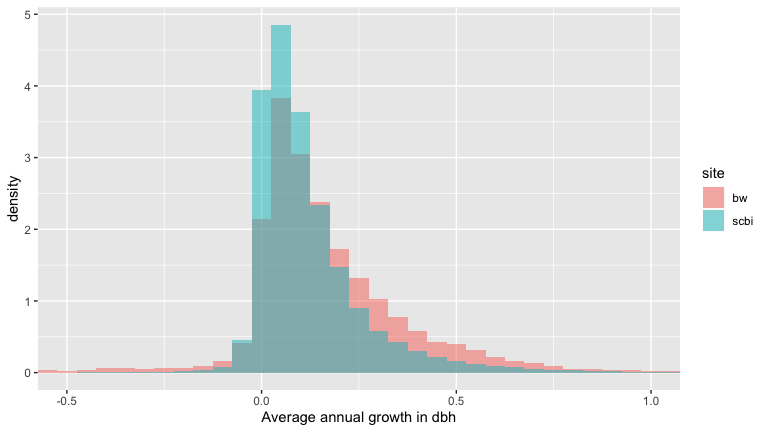
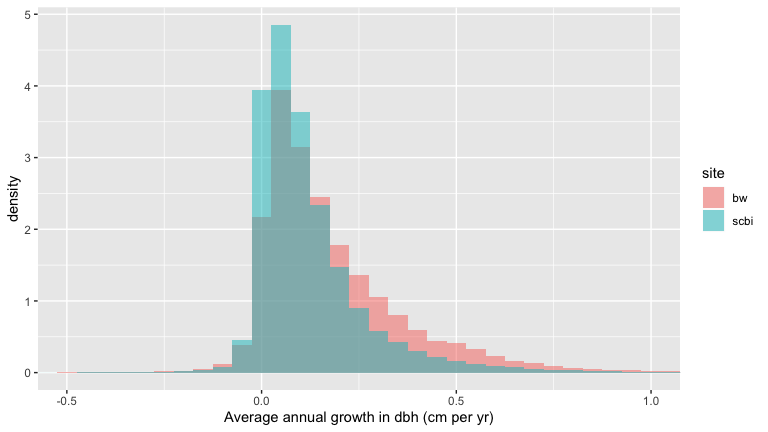
Created buffer for SCBI

diff --git a/README.md b/README.md
@@ -133,7 +133,7 @@ The resulting data frames are named with some variation of `growth_df`.
 ``` r
 census_df1 <- bw_2008
 # we need to filter out the resprouts
-census_df2 <- bw_2014 %>% filter(codes != 'R')
+census_df2 <- bw_2014 %>% filter(!str_detect(codes,'R'))
 id <- "treeID"
 
 bw_growth_df <- 
@@ -167,7 +167,7 @@ growth_df <- bind_rows(
 )
 ggplot(growth_df, aes(x = growth, y = ..density.., fill = site)) +
   geom_histogram(alpha = 0.5, position = "identity", binwidth = 0.05) +
-  labs(x = "Average annual growth in dbh") +
+  labs(x = "Average annual growth in dbh (cm per yr)") +
   coord_cartesian(xlim = c(-0.5, 1))
 ```
 
@@ -217,25 +217,30 @@ autocorrelation is inversely-related to distance. However, we further
 assume that once trees are more than 7.5 meters apart, this
 autocorrelation is negligeable.
 
-**Big Woods**:
+**Example of buffer at work**:
 
 ``` r
-square <- tibble(
+# Boundary polygon
+square_boundary <- tibble(
   x = c(0,0,1,1),
   y = c(0,1,1,0)
 ) %>% 
   sf_polygon()
-buffer <- square %>% 
+
+# Buffer polygon
+square_buffer <- square_boundary %>% 
   st_buffer(dist = -0.1)
+
 ggplot() +
-  geom_sf(data = square) +
-  geom_sf(data = buffer, col="red") 
+  geom_sf(data = square_boundary) +
+  geom_sf(data = square_buffer, col="red") 
 ```
 
 <img src="man/figures/README-unnamed-chunk-10-1.png" width="100%" />
 
-``` r
+**Big Woods**:
 
+``` r
 # Bigwoods study region boundary polygon
 bw_boundary <- bigwoods_study_region %>% 
   sf_polygon()
@@ -244,27 +249,57 @@ bw_boundary <- bigwoods_study_region %>%
 bw_buffer <- bw_boundary %>%
   st_buffer(dist = -max_dist)
 
-# Sample of 5000 trees
-set.seed(76)
-bw_trees_sample <- bw_growth_df %>% 
-  sample_n(5000) %>% 
-  select(x = gx, y = gy) %>% 
-  st_as_sf(coords = c("x", "y"))
+# Convert data frame to sf object
+bw_growth_df <- bw_growth_df %>% 
+  st_as_sf(coords = c("gx", "gy"))
 
-index <- st_intersects(bw_trees_sample, bw_buffer, sparse = FALSE)
-bw_trees_sample <- bw_trees_sample %>% 
+# ID which points are in buffer and which are not
+index <- st_intersects(bw_growth_df, bw_buffer, sparse = FALSE)
+bw_growth_df <- bw_growth_df %>% 
   mutate(buffer = index)
 
 # Plot
 ggplot() +
   geom_sf(data = bw_boundary) +
   geom_sf(data = bw_buffer, col="red") +
-  geom_sf(data = bw_trees_sample, aes(col=buffer), size = 0.5)
+  # Only random sample of 1000 trees:
+  geom_sf(data = bw_growth_df %>% sample_n(1000), aes(col=buffer), size = 0.5)
 ```
 
-<img src="man/figures/README-unnamed-chunk-10-2.png" width="100%" />
+<img src="man/figures/README-unnamed-chunk-11-1.png" width="100%" />
 
 **SCBI**:
+
+``` r
+# Bigwoods study region boundary polygon
+scbi_boundary <- tibble(
+  x = c(0, 0, 400, 400, 0),
+  y = c(0, 640, 640, 0, 0)
+) %>% 
+  sf_polygon()
+
+# Buffer polygon
+scbi_buffer <- scbi_boundary %>%
+  st_buffer(dist = -max_dist)
+
+# Convert data frame to sf object
+scbi_growth_df <- scbi_growth_df %>% 
+  st_as_sf(coords = c("gx", "gy"))
+
+# ID which points are in buffer and which are not
+index <- st_intersects(scbi_growth_df, scbi_buffer, sparse = FALSE)
+scbi_growth_df <- scbi_growth_df %>% 
+  mutate(buffer = index)
+
+# Plot
+ggplot() +
+  geom_sf(data = scbi_boundary) +
+  geom_sf(data = scbi_buffer, col="red") +
+  # Only random sample of 1000 trees:
+  geom_sf(data = scbi_growth_df %>% sample_n(1000), aes(col=buffer), size = 0.5)
+```
+
+<img src="man/figures/README-unnamed-chunk-12-1.png" width="100%" />
 
 #### Spatial cross-validation
 
